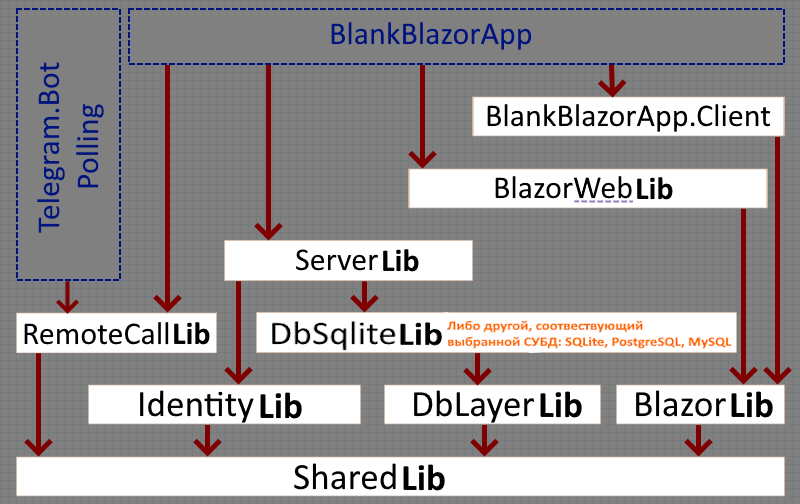
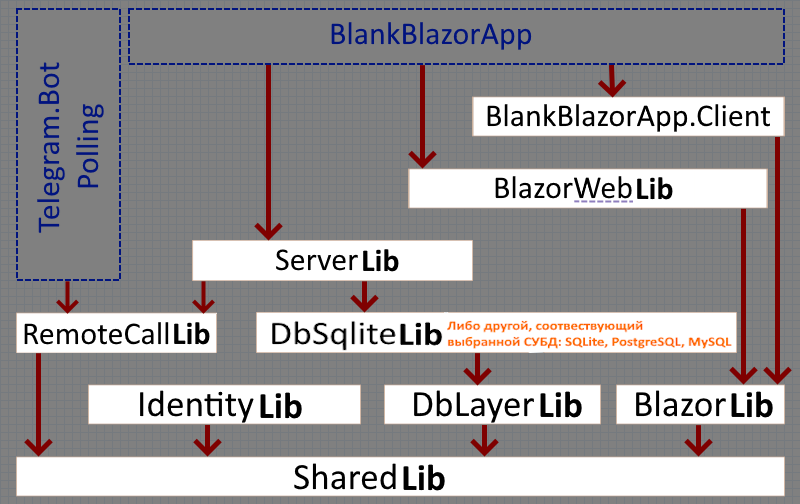
~

Changed region(s): [[0.1875, 0.119, 0.3125, 0.7738], [0.3438, 0.4762, 0.5312, 0.5357]]

diff --git a/RemoteCallLib/base/RabbitMqListenerService.cs b/RemoteCallLib/base/RabbitMqListenerService.cs
@@ -7,7 +7,7 @@ using Newtonsoft.Json;
 using Microsoft.Extensions.Hosting;
 using Microsoft.Extensions.DependencyInjection;
 
-namespace Telegram;
+namespace RemoteCallLib;
 
 /// <inheritdoc/>
 public class RabbitMqListenerService<TQueue, TRequest, TResponse>
@@ -31,7 +31,7 @@ public class RabbitMqListenerService<TQueue, TRequest, TResponse>
     /// <summary>
     /// Имя очереди MQ
     /// </summary>
-    public string QueueName { get { _queueName ??= TQueue.QueueName; return _queueName; } } // TQueue.QueueName;
+    public string QueueName { get { _queueName ??= TQueue.QueueName; return _queueName; } }
 
     /// <inheritdoc/>
     public RabbitMqListenerService(IOptions<RabbitMQConfigModel> rabbitConf, IServiceProvider servicesProvider)

diff --git a/ServerLib/Services/Receives/UpdateTelegramMainUserMessageReceive.cs b/ServerLib/Services/Receives/UpdateTelegramMainUserMessageReceive.cs
@@ -1,4 +1,5 @@
 using Microsoft.Extensions.Logging;
+using RemoteCallLib;
 using SharedLib;
 
 namespace Transmission.Receives.web;
@@ -6,7 +7,7 @@ namespace Transmission.Receives.web;
 /// <summary>
 /// Update Telegram main user message
 /// </summary>
-public class UpdateTelegramMainUserMessageReceive(ITelegramWebService tgWebRepo, ILogger<UpdateTelegramUserReceive> _logger)
+public class UpdateTelegramMainUserMessageReceive(ITelegramWebService tgWebRepo, ILogger<UpdateTelegramMainUserMessageReceive> _logger)
     : IResponseReceive<MainUserMessageModel?, object?>
 {
     /// <inheritdoc/>

diff --git a/ServerLib/Services/Receives/GetTelegramUserReceive.cs b/ServerLib/Services/Receives/GetTelegramUserReceive.cs
@@ -1,4 +1,5 @@
 using Microsoft.Extensions.Logging;
+using RemoteCallLib;
 using SharedLib;
 
 namespace Transmission.Receives.web;
@@ -9,7 +10,6 @@ public class GetTelegramUserReceive(ITelegramWebService tgWebRepo, ILogger<GetTe
 {
     /// <inheritdoc/>
     public static string QueueName => GlobalStaticConstants.TransmissionQueues.GetTelegramUserReceive;
-
 
     /// <inheritdoc/>
     public async Task<TResponseModel<TelegramUserBaseModelDb?>> ResponseHandleAction(long payload)

diff --git a/BlankBlazorApp/BlankBlazorApp/Program.cs b/BlankBlazorApp/BlankBlazorApp/Program.cs
@@ -8,6 +8,7 @@ using Microsoft.AspNetCore.Localization;
 using Microsoft.EntityFrameworkCore;
 using NLog;
 using NLog.Web;
+using RemoteCallLib;
 using ServerLib;
 using SharedLib;
 using System.Globalization;

diff --git a/Telegram.Bot.Polling/Program.cs b/Telegram.Bot.Polling/Program.cs
@@ -2,6 +2,7 @@ using Microsoft.AspNetCore.Hosting;
 using NLog;
 using NLog.Extensions.Logging;
 using NLog.Web;
+using RemoteCallLib;
 using ServerLib;
 using SharedLib;
 using Telegram;

diff --git a/RemoteCallLib/TransmissionTelegramService.cs b/RemoteCallLib/TransmissionTelegramService.cs
@@ -1,6 +1,6 @@
 using SharedLib;
 
-namespace ServerLib;
+namespace RemoteCallLib;
 
 /// <summary>
 /// Удалённый вызов команд в TelegramBot службе

diff --git a/RemoteCallLib/TransmissionWebService.cs b/RemoteCallLib/TransmissionWebService.cs
@@ -1,6 +1,6 @@
 using SharedLib;
 
-namespace ServerLib;
+namespace RemoteCallLib;
 
 /// <summary>
 /// Удалённый вызов команд в Web службе

diff --git a/RemoteCallLib/base/IResponseReceive.cs b/RemoteCallLib/base/IResponseReceive.cs
@@ -1,4 +1,6 @@
-namespace SharedLib;
+using SharedLib;
+
+namespace RemoteCallLib;
 
 /// <summary>
 /// Обработчик входящего сообщения

diff --git a/RemoteCallLib/ServiceProviderExtensions.cs b/RemoteCallLib/ServiceProviderExtensions.cs
@@ -1,6 +1,6 @@
 using Microsoft.Extensions.Options;
+using RemoteCallLib;
 using SharedLib;
-using Telegram;
 
 namespace Microsoft.Extensions.DependencyInjection;
 

diff --git a/RemoteCallLib/base/RabbitClient.cs b/RemoteCallLib/base/RabbitClient.cs
@@ -7,7 +7,7 @@ using SharedLib;
 using System.Diagnostics;
 using System.Text;
 
-namespace ServerLib;
+namespace RemoteCallLib;
 
 /// <summary>
 /// RabbitMq client

diff --git a/Telegram.Bot.Polling/Services/Receives/GetBotUsernameReceive.cs b/Telegram.Bot.Polling/Services/Receives/GetBotUsernameReceive.cs
@@ -1,4 +1,5 @@
-using SharedLib;
+using RemoteCallLib;
+using SharedLib;
 using Telegram.Bot;
 
 namespace Transmission.Receives.telegram;

diff --git a/ServerLib/Services/Receives/GetWebConfigReceive.cs b/ServerLib/Services/Receives/GetWebConfigReceive.cs
@@ -1,4 +1,5 @@
 using Microsoft.Extensions.Options;
+using RemoteCallLib;
 using SharedLib;
 
 namespace Transmission.Receives.web;
